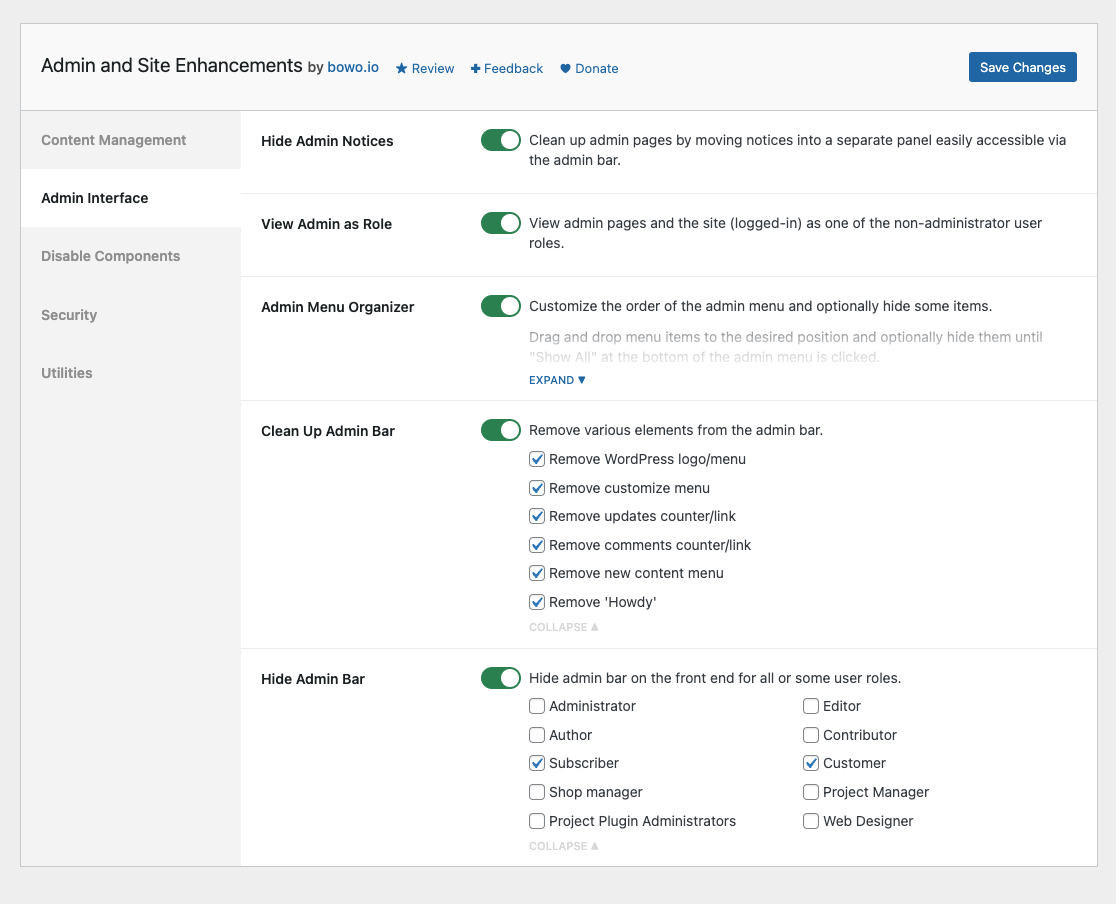
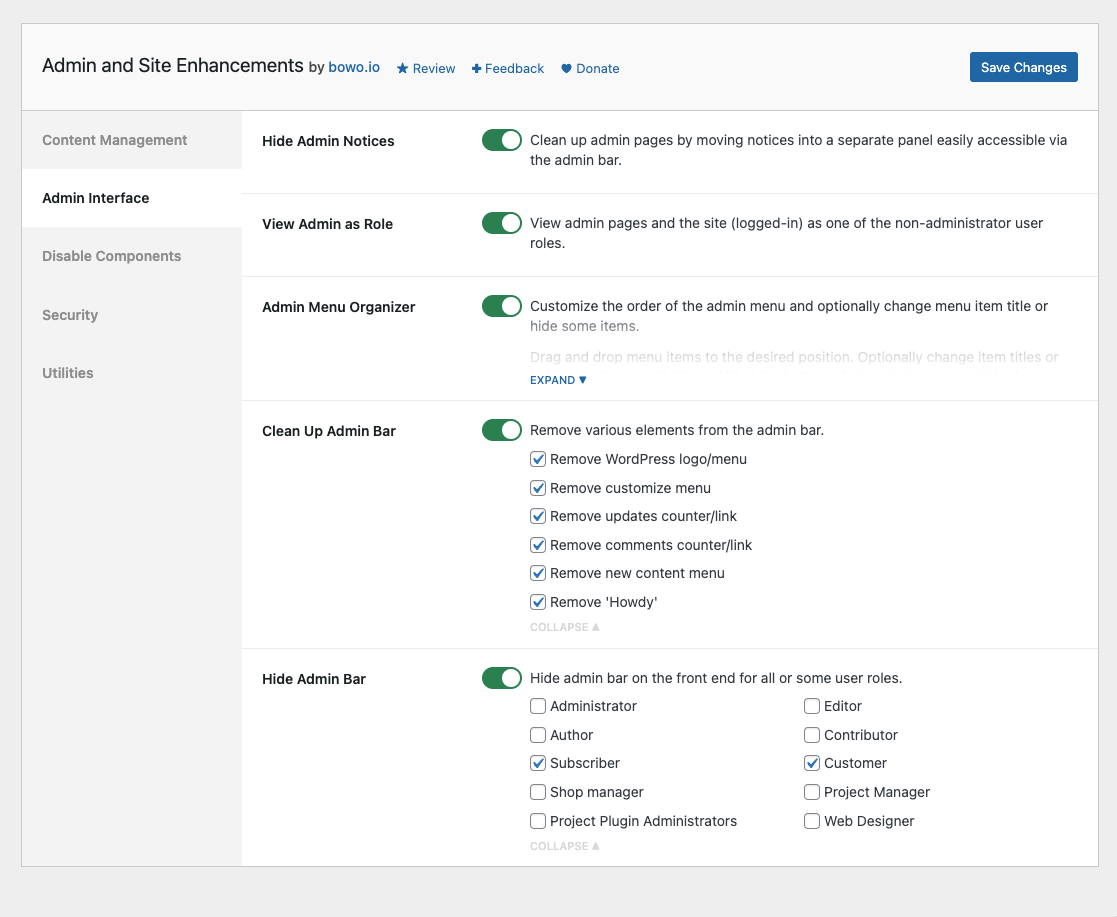
v2.8.2 release

diff --git a/admin-site-enhancements.php b/admin-site-enhancements.php
@@ -4,7 +4,7 @@
  * Plugin Name:       Admin and Site Enhancements
  * Plugin URI:        https://wordpress.org/plugins/admin-site-enhancements/
  * Description:       Easily enable enhancements and features that usually require multiple plugins.
- * Version:           2.8.1
+ * Version:           2.8.2
  * Author:            Bowo
  * Author URI:        https://bowo.io
  * License:           GPL-2.0+
@@ -18,7 +18,7 @@ if ( ! defined( 'ABSPATH' ) ) {
 	exit;
 }
 
-define( 'ASENHA_VERSION', '2.8.1' );
+define( 'ASENHA_VERSION', '2.8.2' );
 define( 'ASENHA_ID', 'asenha' );
 define( 'ASENHA_SLUG', 'admin-site-enhancements' );
 define( 'ASENHA_SLUG_U', 'admin_site_enhancements' );

diff --git a/README.md b/README.md
@@ -5,7 +5,7 @@ Donate link: https://paypal.me/qriouslad
 Tags: enhancements, tweaks, optimizations, tools  
 Requires at least: 4.6  
 Tested up to: 6.1.1  
-Stable tag: 2.7.0  
+Stable tag: 2.8.2  
 Requires PHP: 5.6  
 License: GPLv2 or later  
 License URI: http://www.gnu.org/licenses/gpl-2.0.html
@@ -35,7 +35,7 @@ Admin and Site Enhancements helps you to easily enhance various admin workflows 
 
 * **Hide Admin Notices**. Clean up admin pages by moving notices into a separate panel easily accessible via the admin bar.
 * **View Admin as Role**. View admin pages and the site (logged-in) as one of the non-administrator user roles.
-* **Admin Menu Organizer**. Customize the order of the admin menu and optionally hide some items.
+* **Admin Menu Organizer**. Customize the order of the admin menu and optionally change menu item title or hide some items.
 * **Clean Up Admin Bar**. Remove various elements from the admin bar.
   * Remove WordPress logo/menu
   * Remove customize menu/link
@@ -101,6 +101,14 @@ Admin and Site Enhancements will include more enhancements, tweaks and useful fe
 Hoping that this is useful in reducing the number of plugins we install the first time we set up a site.
 
 ## Changelog
+
+### 2.8.2 (2022.11.29)
+
+* **[CHANGED] Admin Interface >> Admin Menu Organizer**: Allow customizing menu item title, for menu items added by plugins or the active theme, i.e. not from WordPress core.
+
+### 2.8.1 (2022.11.28)
+
+* **[CHANGED] Admin Interface >> Admin Menu Organizer**: Fixed the issue when menu items are no longer shown upon saving. This happened when Admin Menu Organizer was enabled and directly saved without making any changes to the menu order first. 
 
 ### 2.8.0 (2022.11.28)
 
